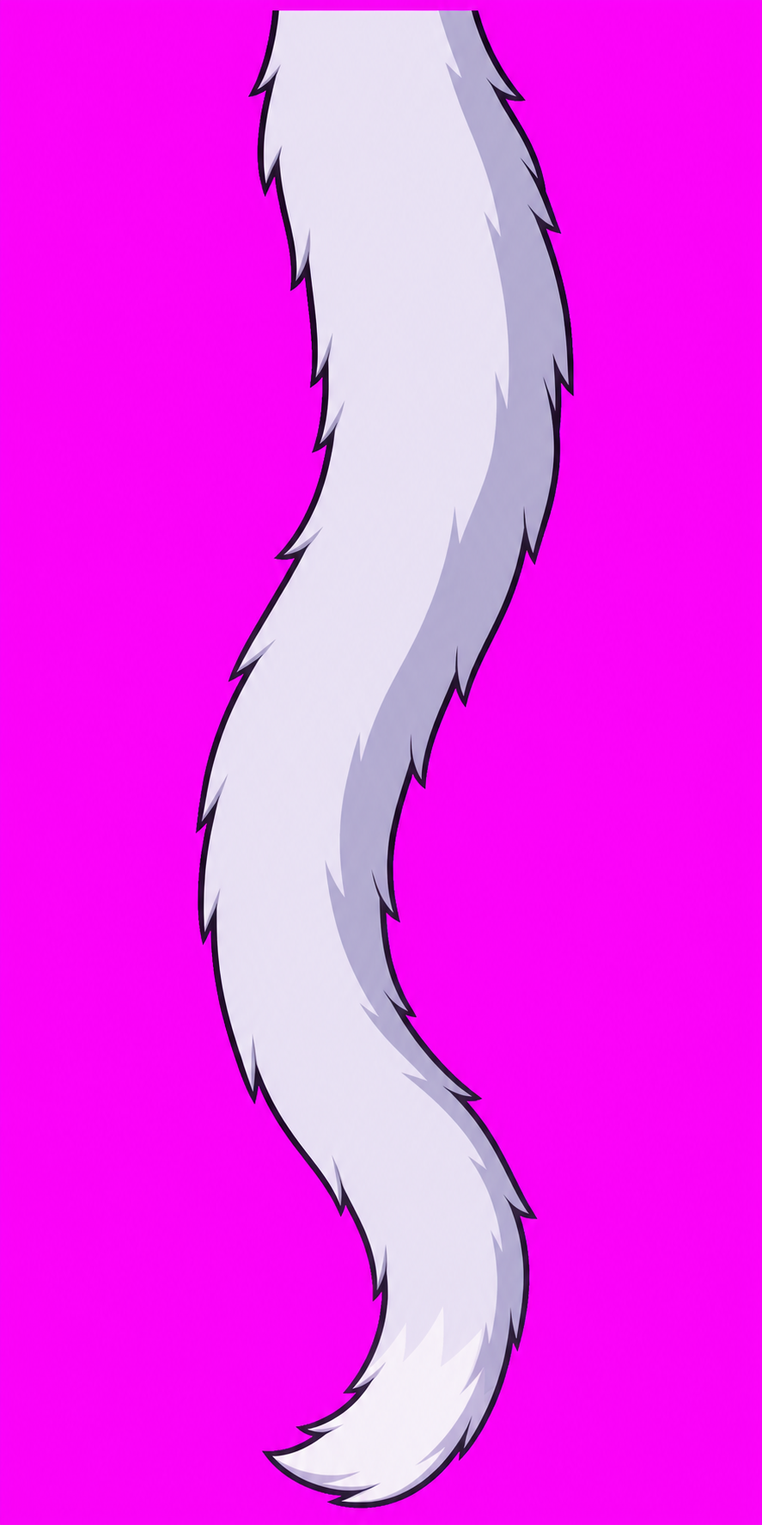
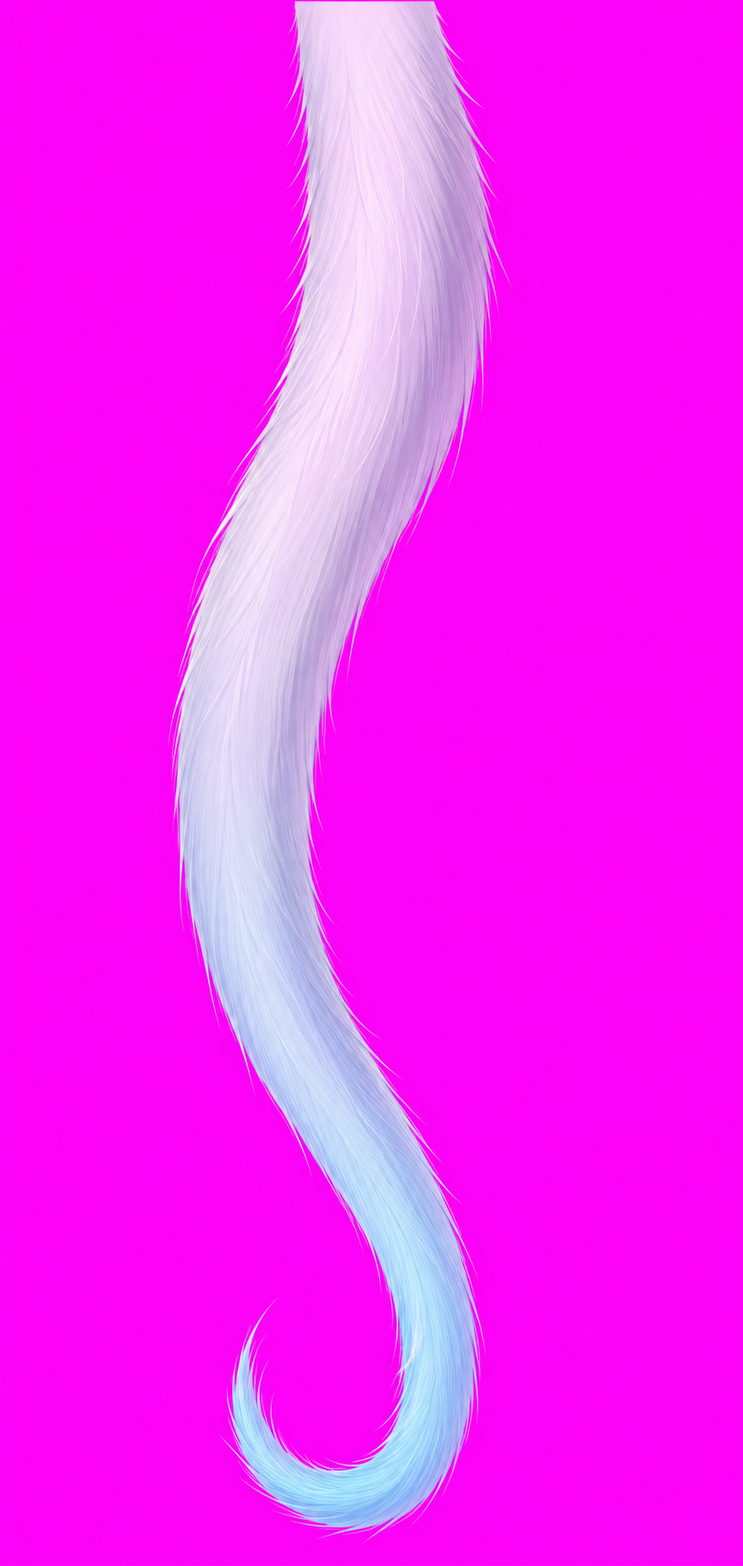
T45.2b 猫尾返工：查教程重做 + 自主摆动
用户打回第一版：「不够精致生动，画风都不一样，这个尾巴只是测试还是什么？
尾巴要有自然摆动，而且太粗了，位置也不对，这个是什么动物的尾巴」
「live2d有教程吧。做参考别这样乱作了」。四条全中，我一条都没自查出来。

查了教程（REFERENCE_NOTES 第三十一批）：多段振り子（伊糖だねこ）、9 段分割且梢比
根快（はるひ）、変形パス 4~5 点（もいもい）、XY 分两条摆（朝sin）、獣耳三层形变器
且耳根不许动（vtuberkaibougaku，留给 T45.3）。

★ 本轮最有价值的发现：社区标准配方「把呼吸加进尻尾物理演算的输入，尻尾就会常に
ゆらゆら」不能照搬。我照做了，实测只摆 0.3 帧像素。查 zrig.c:3013 才明白：官方
物理输出的是摆角，我们输出的是滞后量 pos-target。呼吸只有 0.28Hz，摆锤完全跟得上
⇒ 差值约等于 0。改成 idle 慢正弦(0.21Hz)驱动 ParamAccTailSwing、物理在其上叠二次
滞后后，实测 6.2 帧像素 / 11.3 画布像素，干净正弦。差异写进 LIVE2D_CONFORMANCE。

画风：三版提示词我都写「纯平涂/两个色阶/不许渐变」，因为把「有色卡」误读成「平涂」。
量了才知道 hair_front 4762 色、seg_torso 25828 色 —— 她根本是柔和渐变厚涂。
连带推翻自己的口径：DC55「AI 出图须按色卡重铺」只适用于漫符那类平面符号，
挂件强行重铺 = 把渐变压成平色 = 用户说的「画风都不一样」。recolor 改成可选。

保留渐变带出抠图问题：残留闸报 852px 紫边，补两轮都压不干净、主色被洗成淡粉、
覆盖率掉到 33%。根因是 alpha 估计器选错 —— 欧氏距离法对柔边系统性高估（30% 白压
洋红，距离法 0.57，真值 0.30）。洋红底有解析解：背景 G=0 所以
a = 1 - ((R+B)/2 - G)/255，代回正好 0.30。换完主色 #F8F9FA，紫边消失。

成品 124x560，7275 色渐变保住，银紫基底渐变到青蓝梢（和她发梢同源）。
动物定为猫：桌宠的尾巴是情绪显示器，猫尾词汇量（竖起/慢摇/快拍/炸毛/卷绕）压倒
狼犬（只有大幅摇摆）和兔（小球无动画价值）。换动物 = 改表一条 + 换一张素材。

教训 158 把「机制通了」当成「做完了」交付（验收全是机制指标，零美术指标）；
159 风格判据要从真实素材量，不能从印象写；160 抠图的 alpha 估计器要配背景选。

selfcheck 391/0、test_core 822、asan 822、smoke 211、web 188，make -s check exit 0。

Changed region(s): [[0.2188, 0.0, 0.75, 0.9921]]

diff --git a/tools/make_rig.py b/tools/make_rig.py
@@ -674,6 +674,34 @@ def attach_emit(rig, base, base_root):
                     "不是把部件删掉而是把不透明度压到 0",
         })
 
+        # —— 自主摆动（T45.2b）——
+        # 本引擎物理输出的是**滞后量**（zrig.c:3013 `pos - target`），不是摆角，
+        # 所以慢输入（呼吸 0.28Hz）推不出位移 —— 实测只有 0.3px。
+        # 「自己动」必须有驱动源：一条参数 + 动作通道的慢正弦，
+        # 物理链在它**之上**再叠二次滞后（梢比根慢半拍）。
+        sw = att.get("swing")
+        if sw:
+            swp = sw["param"]
+            binds = [{"deformer": att["physics"]["deformer"]["id"],
+                      "scale": float(sw["deformer_scale"])}]
+            if sw.get("root_rot_deg"):
+                binds.append({"part": pid, "param": "rot_deg",
+                              "scale": float(sw["root_rot_deg"])})
+            rig["params"].append({
+                "id": swp["id"], "label": swp["label"],
+                "min": float(swp["min"]), "max": float(swp["max"]),
+                "default": float(swp["default"]),
+                "binds": binds, "note": sw["note"]})
+            mo = sw["motion"]
+            act = next((x for x in rig["actions"] if x["id"] == mo["action"]), None)
+            if act is None:
+                raise SystemExit(f"[make_rig] 挂件 {att['id']} 的 swing.motion.action="
+                                 f"{mo['action']!r} 在 actions 里不存在")
+            act.setdefault("channels", []).append({
+                "target": swp["id"], "wave": mo["wave"],
+                "amp": float(mo["amp"]), "bias": float(mo["bias"]),
+                "freq": float(mo["freq"])})
+
         ph = att.get("physics")
         if not ph:
             continue
@@ -703,7 +731,14 @@ def attach_emit(rig, base, base_root):
         # （zrig.c:210 多段摆 G16：driver 写另一条 physics 的 id 时，
         #   输入就是上一段的输出，而且下标必须比自己小，所以顺序不能乱）。
         for seg_ in ph["segments"]:
-            e = {"id": seg_["id"], "part": pid, "driver": seg_["driver"]}
+            e = {"id": seg_["id"], "part": pid}
+            # input（参数直驱）优先于 driver（跟某个组）—— 引擎也是这个优先级
+            # （zrig.c:1050「有它就不看 driver」）。悬垂挂件靠它混入呼吸，
+            # 这样静止时也一直在晃（社区做法，见 attachments.json 的 note）。
+            if "input" in seg_:
+                e["input"] = seg_["input"]
+            else:
+                e["driver"] = seg_["driver"]
             if "axis" in seg_:
                 e["axis"] = seg_["axis"]
             if "param" in seg_:

diff --git a/tools/make_attach_parts.py b/tools/make_attach_parts.py
@@ -32,6 +32,30 @@ from make_manpu_parts import (SOLID_A, bg_color, key_alpha, left_magenta,
                               relay_colors, CROP_MARGIN)
 
 
+def key_alpha_soft(rgb: np.ndarray, bg: np.ndarray) -> np.ndarray:
+    """洋红底的**精确** alpha —— 给要保留渐变的挂件用。
+
+    `make_manpu_parts.key_alpha` 用「到背景的欧氏距离」估覆盖度。那对漫符够用
+    （硬边 + 事后按色卡重铺，边上那点误差被重铺盖掉了），但对要保留渐变的柔边
+    **会系统性高估**：30% 白压在洋红上得到 (255,76,255)，距离法给 0.57，真值是 0.30。
+    结果就是一圈半透明的紫边，而且去边公式拿错 a 一除，紫得更凶。
+
+    洋红底其实有精确解：背景是 (255,0,255)，G 通道为 0，所以
+        观测G = a·前景G + (1−a)·0 = a·前景G
+    把「比中性色多出来多少洋红」定义成 excess = (R+B)/2 − G，
+    纯背景 excess = 255、纯中性前景 excess = 0，于是 a = 1 − excess/255。
+    代回上面的例子：excess = 255−76 = 179 ⇒ a = 0.30。**对上了。**
+
+    前提：前景本身不能是洋红系。银紫→青蓝的尾巴满足；真要做粉色挂件得换判据。
+    """
+    f = rgb.astype(np.float64)
+    excess = (f[..., 0] + f[..., 2]) * 0.5 - f[..., 1]
+    denom = (float(bg[0]) + float(bg[2])) * 0.5 - float(bg[1])
+    if denom < 1.0:
+        raise SystemExit("[attach] 背景不是洋红系，key_alpha_soft 用不了")
+    return np.clip(1.0 - np.maximum(excess, 0.0) / denom, 0.0, 1.0)
+
+
 def build_one(att, slot, redraw_dir, sprites_dir):
     src = os.path.join(redraw_dir, att["source"])
     if not os.path.exists(src):
@@ -59,8 +83,15 @@ def build_one(att, slot, redraw_dir, sprites_dir):
     sx1, sy1 = min(bx0 + bw, rgb.shape[1]), min(by0 + bh, rgb.shape[0])
     canvas[sy0 - by0:sy1 - by0, sx0 - bx0:sx1 - bx0] = rgb[sy0:sy1, sx0:sx1]
 
-    ca = key_alpha(canvas, bg)
-    crgb = relay_colors(canvas, ca, att["recolor"])
+    if att.get("recolor"):
+        ca = key_alpha(canvas, bg)
+        crgb = relay_colors(canvas, ca, att["recolor"])
+    else:
+        # 保留渐变的路径：精确 alpha + 反预乘去边。
+        ca = key_alpha_soft(canvas, bg)
+        aa = ca[..., None]
+        crgb = canvas.astype(np.float64) - (1.0 - aa) * bg.astype(np.float64)
+        crgb = np.clip(crgb / np.maximum(aa, 1e-3), 0, 255)
 
     h1 = int(att["sprite_h"])
     w1 = max(1, int(round(h1 * bw / float(bh))))

diff --git a/tools/selfcheck_repo.py b/tools/selfcheck_repo.py
@@ -593,6 +593,7 @@ L2D_EXTENSIONS = {
                    "形状的模型制作方法》扩展表里的 ID，口径=嘴整体左右偏 + 顺带抬起那侧嘴角。"
                    "不能用 ParamMouthForm 代替：Form 被口型同步占着（T44.1 第 ⑦ 条）",
     "ParamAccTailCat": "猫尾挂件开关（0=摘 1=戴）。A49 挂件插槽系统的第一件；走 DC59 差分件口径 min0/max1，绑 alpha 而不是把部件删掉",
+    "ParamAccTailSwing": "猫尾自主摆动。本引擎物理输出的是滞后量不是摆角（zrig.c:3013），慢输入推不出位移，所以「自己动」要靠动作通道驱动这条参数",
     **{f"ParamSparkle{i}": "第 %d 颗 ✨ 的生命周期（scale+alpha 合一，一颗一个参数）" % i
        for i in range(1, 9)},
 }

diff --git a/docs/memory/TASKS.md b/docs/memory/TASKS.md
@@ -709,8 +709,8 @@ T44 是**幅度很小但自成语义**的面部变化（走神 / 怀疑 / 忍笑
 |---|---|---|---|
 | T45.1 | **挂件插槽表** `characters/<c>/design/attachments.json`：定义插槽（位置 / 层号区间 / 父组 / 允许的物理预设）与挂件（素材 / 落哪个插槽 / 开关参数 / 物理参数） | [x] | 口径延续 T43.2：生成器只读表，加挂件 = 表加一条 + 一张素材，不改 .py。**插槽是「位置」不是「某个挂件」** —— 一个槽能换不同件。**2026-10-16 交付**：`characters/xiaoxun/design/attachments.json`。两层结构：`slots[]`（插槽=**位置**：layer / group / anchor / curve）+ `attachments[]`（挂件=**内容**：source / sprite_h / pos / recolor / param / physics）。已定义 3 个槽：`hip_back`（层 30，身后，anchor [0.5,0] 曲线 tip）、`head_under_bangs`（层 185，会被 hair_front 自然压住一截）、`head_over_hair`（层 250）。切件器 `tools/make_attach_parts.py`（**保长宽比**，漫符那个是压成正方的）；键色与色卡重铺直接 import `make_manpu_parts`，不重写第二份。`make_rig.py` 加 `attach_emit()`，一个挂件字面量都不持有，部件/开关参数/形变器/物理链全从表派生。`rebuild_parts.sh` 已接上 |
 | T45.2 | **第一个加法挂件：尾巴**（尾饰品，用户点名） | [x] | 层 30（0~59 整段空着，**那里才是身体之后**；初稿写的 66~94 是错的，那段在腿之上）。照 `hair_ahoge` 抄：2~3 段物理链 + 网格 S 形变器。**硬要求：必须会甩**，贴着不动的尾巴比没有更假（A49 硬要求 4）。**2026-10-16 交付**：猫尾上身了。素材 `design/redraw/acc_tail_cat.png`（887×1774 洋红底）→ 成品 131×520，主色 `#D8D8E8`(58%) 与头发完全同色。物理三段 `tail_x`（跟身体甩）→ `tail_tip`（串在前面，驱动网格形变器 `tail_s`，刚度减半 = 梢比根慢半拍）→ `tail_y`（垂荡）。曲线 `BEND_TIP`，依据是 `src/core/zimg.h:93` 原文直接点名「后发、裙摆、**尾巴**这类吊在上面的部件」—— 引擎当初就是按尾巴设计的。**实测摆动 11.9 帧像素 / 21.6 画布像素**，且数据里能看到阻尼过程（165.1→169.3 用 ~0.7s 才稳，不是瞬跳）。⚠ 两次返工：① `pos` 第一版放 x352，整条压在腿后只露一条缝 → 挪到 x300 才露得出来；② 形变器 amp 第一版照抄呆毛的 [0,2,5,-4.5,-9]，实测整条行程只有 6.6px 而尾巴有 520px 长（摆幅 1.3%）→ ×3 到 [0,6,15,-13.5,-27]。**呆毛的系数不能照搬到尾巴上**。占用：部件 61/192、参数 53/160、物理 17/24、形变器 8。**还缺**：尾巴现在只会『被动跟着身体甩』，真猫的尾巴会自己动 —— idle 自主摆尾归 T45.2b |
-| T45.2b | 尾巴 **idle 自主摆尾**：现在只会被动跟着身体甩 | [ ] | 真猫的尾巴不等身体动就自己摇。走动作通道（给 `tail_s` 配一条参数 + idle 里加一条低频正弦），不是物理 —— 物理只负责『受力之后怎么回弹』，『自己动』得有驱动源。和 ✨ 的 `sparkle_cycle()` 同一个思路 |
-| T45.3 | **第二个加法挂件：兽耳 + 耳饰** | [ ] | 兽耳走层 181~189（被刘海自然压住），耳饰 / 发饰走 247~299。耳朵要能随情绪动（警觉竖起 / 沮丧耷拉）—— 和 T43 漫符共用情绪源 |
+| T45.2b | 尾巴 **idle 自主摆尾**：现在只会被动跟着身体甩 | [x] | 真猫的尾巴不等身体动就自己摇。走动作通道（给 `tail_s` 配一条参数 + idle 里加一条低频正弦），不是物理 —— 物理只负责『受力之后怎么回弹』，『自己动』得有驱动源。和 ✨ 的 `sparkle_cycle()` 同一个思路。**2026-10-16 交付**：`ParamAccTailSwing`（−1~1）由 `idle` 慢正弦 0.21Hz 驱动，同绑网格形变器 `tail_s` 与根部 `rot_deg ±3.2°`；物理链在其**之上**叠二次滞后。实测自主摆动 **6.2 帧像素 / 11.3 画布像素**，干净正弦。★ **社区配方照搬失败**：「把呼吸加进物理输入」在官方成立（官方物理输出**摆角**），我们的物理输出的是**滞后量** `pos−target`（zrig.c:3013），0.28Hz 的呼吸摆锤跟得上 ⇒ 差值≈0，实测只摆 0.3px。本引擎「自己动」必须有独立驱动源 |
+| T45.3 | **第二个加法挂件：兽耳 + 耳饰** | [ ] | 兽耳走层 181~189（被刘海自然压住），耳饰 / 发饰走 247~299。耳朵要能随情绪动（警觉竖起 / 沮丧耷拉）—— 和 T43 漫符共用情绪源。**2026-10-16 定动物 = 猫**（用户问「小寻适合扮演什么动物娘」）。判据是**桌宠的尾巴是情绪显示器，尾巴词汇量压倒一切**：猫尾有竖起(开心/警觉)、慢摇(放松)、快拍(烦躁)、炸毛(惊吓)、卷绕(撒娇)五种以上可读姿态；狼/犬只有大幅摇摆一种；兔尾是个小球几乎没有动画价值。次要理由：细尾在桌面小尺寸下遮挡少；她的银紫发色天然就是银渐层猫。**备选**：她戴着鲸鱼发卡、配色偏水蓝，水獭/海兽方向更独特，但尾巴是扁桨、表现力差 —— 若要走这条，建议把海洋感放在**耳饰**上而不是尾巴。**换动物 = 改表里一条 + 换一张素材**，不动代码 |
 | T45.4 | 挂件**开关与换装 UI**：调试台能逐槽切换挂件 / 摘掉 | [x] | 走 DC59 差分件口径（新参数 min0/def0/max1）。两条入口都要有（`/api/param` 与调试台按钮，DC41）。**2026-10-16：引擎侧早就有，只是没人用。** `zpet_outfit_count/id_at/name_at/set_outfit`、`/api/outfit?id=`、调试台按钮 `web/test.js:185` 全在。本轮把 `outfits/default.json` 改成**从 rig 现状自动生成**（它烂过一次：还在引用上一代单图层 rig 的 `body_full.png`，换装换不回原装）。往返验过：原装→夜航→原装，平均像素差 4.8 vs 基线抖动 4.3 ⇒ 干净。**逐槽摘挂件的 UI 仍缺**（挂件 ≠ 服装） |
 | T45.5 | **服装变化 第 1 档：换色** | [x] | 改 palette 重铺既有外套 / 裙 / 袖。零新素材，是四档里唯一今天就能做的。**2026-10-16 交付：midnight（夜航）**。`design/wardrobe.json` + `tools/make_wardrobe.py`。⚠ **纯按色卡换色行不通**（实测）：`seg_torso` 里外套白被最近邻判成「袜 #F6F2F0」(22.5%)、「外套主体」连前六都没进；`seg_leg_l` 的**腿部皮肤**被判成「衬衫」(34.4%) ⇒ 会把皮肤一起染了。官方《アバターモデル》原文印证：「服と肌が一つの描画オブジェクトですと、まとめて色変更されてしまいます」。**分工口径**：单一衣物件走 `shift`（保明暗平移 `out = target + (px−source)`，实测 arm 80.2% 袖青 + 0 皮肤 ⇒ 安全）；多衣物纠缠的件走 `repaint`（AI 拿原件当参考图整张重绘，卡剪影 IoU ≥ 0.97，实测 0.977） |
 | T45.6 | **服装变化 第 2 档：换件** | [x] | 外套 / 裙子独立成件。**阻塞于 D19**：要 AI 重绘被外套盖住的衬衫与身体，和 T31 躯干腋下补绘是同一类活，**应与 T31 并一个出图批次**。**2026-10-16 交付：cocoa（可可，针织开衫）** —— 棒球夹克→奶油粗针织开衫、衬衫→焦糖高领、百褶裙→棕灯芯绒，**是真换衣服不是改色**。★ **我上一轮说的『阻塞于 D19』是错的，当轮更正**：D19 只在要**拆开**现有衣服露出底下时成立；换装是**整件替换贴图**，AI 直接画一张完整的「穿着新衣服的躯干」，没有被盖住的部分需要重绘。**所以不阻塞，也不必和 T31 并批。** 新增 `restyle` 模式：换件**不能卡 IoU**（开衫比夹克厚，实测外长 12.0%，IoU 必然掉到 0.89），改卡**外长上限 + 内缩上限** —— 会在身上露洞的是内缩（上限 5%，实测 0.1%）。官方依据：「レイヤー間が近すぎると今の形よりも大きなコスチュームへの変更が難しくなります」 |

diff --git a/docs/LIVE2D_CONFORMANCE.md b/docs/LIVE2D_CONFORMANCE.md
@@ -100,6 +100,7 @@ I/U/E/O 音素口型（G37）、瞳孔形状（`ParamEyeBallForm`，G41）、眉
 | `ParamBaseRot` | **2026-10-13 补**：全身倾斜。标准表只有 `ParamBodyAngleZ`（上身），而"被摸头 / 被拖拽"时要整个人（含腿）一起晃，所以另立一个绑 `root` 组 `rot_deg × 0.5` |
 | `ParamStarEye` | **2026-10-16 补**：星星眼总闸（0→1）。一条参数三件事：常态虹膜 `alpha × −1`（淡出）、星形虹膜 `alpha × 1 offset −1`（淡入）、8 颗 ✨ 同样 `×1 offset −1`（放行）。官方没有这个参数，但差分件切换的做法是官方的（[surume1ka](https://surume1ka.com/archives/2207)：新参数 min0/def0/max1，用不透明度 0↔100 切）。另见 [@kawase1234567](https://x.com/kawase1234567/status/1747491216227516567)：きらきら目和ハート目不会同时发动，**应当收进同一个参数**，所以这里是一条总闸而不是每种眼睛一条 |
 | `ParamMouthX` | **2026-10-16 补（T44.2）**：嘴左右 −1~1 = 单边嘴角。不是 Live2D 标准表的名字，取自 Animaze《複雑な口角形状の Live2D モデル作成方法》的扩展参数表（[animaze.us](https://www.animaze.us/manual/gettingstarted2djp/extparam2d)），原文口径「口角を『クイッ』と上げるような、左右の位置を調整するパラメータ」「頬も同様に口の動きに合わせて少し上がるように」。**为什么不复用 `ParamMouthForm`**：Form 已经被口型同步占满（visemes 里 I=+1.0 / U=−1.0 / O=−0.7 / N=−0.35），而且引擎口径是口型层覆盖、表情只拿 (1−w) 的余味 —— 挂在 Form 上的微表情一说话就被压掉。**我们的偏差**：官方做法是 mesh 变形器把一侧嘴角拉高，我们只有整件变换，所以用 `rot_deg ±8°` 代替，`dx` 压到 ±1.5px 只做支点错觉（实测扫描 `logs/asset_qa/mouthx_sweep.png`：平移一大就变成「嘴整个滑到一边」的缺陷）。官方 PerfectSync 把 Left/Right Mouth Corner 列在 ★ 最低推荐档（[juku.live2dcs.jp](https://juku.live2dcs.jp/en/course/course-18/)） |
+| `ParamAccTailSwing` | **2026-10-16 补（T45.2b）**：猫尾自主摆动 −1~1，由 `idle` 的慢正弦（0.21Hz ≈ 4.8 秒一个来回）驱动，同时绑网格形变器 `tail_s`（S 形鞭动）与根部 `rot_deg ±3.2°`。**我们和官方的实现差异（重要）**：Live2D 社区的标准配方是「把**呼吸**加进尻尾物理演算的**输入**，尻尾就会常にゆらゆら」（[伊糖だねこ](https://note.com/itodaneko/n/n3b5e2ada3f4b)）—— 那在官方引擎成立，因为**官方物理输出的是摆角**。我们的物理输出的是**滞后量** `pos − target`（`src/core/zrig.c:3013`），呼吸只有 0.28Hz、摆锤完全跟得上 ⇒ 差值≈0，**实测只摆 0.3 帧像素**。所以在本引擎「自己动」必须有独立驱动源，物理只负责在它之上叠二次滞后。换成动作通道后实测 **6.2 帧像素 / 11.3 画布像素**，波形是干净正弦 |
 | `ParamAccTailCat` | **2026-10-16 补（T45.2）**：猫尾挂件开关，0=摘掉 1=戴上。官方标准表里没有挂件概念 —— Live2D 的做法是 `pose3.json` 的**差分组**（一组部件同一时刻只露一个），我们这里是单件开关，走的是同一套差分件口径（[surume1ka](https://surume1ka.com/archives/2207)：新参数 min0/def0/max1，用不透明度 0↔100 切），所以**绑 `alpha` 而不是把部件从 rig 里删掉**。尾巴本体不靠这个参数动，动的是物理链 `tail_x → tail_tip（驱动网格形变器 tail_s）→ tail_y`；曲线用 `BEND_TIP`，依据是 `src/core/zimg.h:93` 原文「顶边固定，越往下位移越大 —— 后发、裙摆、**尾巴**这类吊在上面的部件」。实测摆动 11.9 帧像素 / 21.6 画布像素，带阻尼（~0.7s 稳定）|
 | `ParamSparkle1` `ParamSparkle2` `ParamSparkle3` `ParamSparkle4` `ParamSparkle5` `ParamSparkle6` `ParamSparkle7` `ParamSparkle8` | **2026-10-16 补**：第 N 颗 ✨ 的生命周期。一颗一个参数，0→1 走完 = 放大出现→缩小消失（`alpha ×1 offset −1` 与 `sx`/`sy ×0.55 offset −0.55` 合在同一条参数上）。**不许八颗共用一条** —— [カワナミ](https://kw-nmnm.hatenablog.com/entry/2019/12/18/000000)（Live2D 讲师）的做法是 28 颗 ✨ 配 28 个参数，共用会让它们整齐划一地闪，一眼假。素材只有一张 `fx_sparkle.png`，大中小靠 `scale` 复制（官方讲座「キラキラ1・2・3」要求三种大小混用） |
 

diff --git a/docs/REFERENCE_NOTES.md b/docs/REFERENCE_NOTES.md
@@ -2076,3 +2076,66 @@ Ponder & Kennedy (1927) 发现怒り/興奮で瞬目が増える；
 按 Drawable 设 `setDrawableMultiplyColor()` / `setDrawableScreenColor()`，可运行时改。
 这是比"预生成贴图"更灵活的换色路线（能做拾色器让用户自选颜色），
 但**前提仍是衣服和皮肤已经分成不同 Drawable** —— 对我们来说那是 T45.6 之后的事。
+
+
+## 第三十一批：Live2D 的尻尾与獣耳（T45.2b / T45.3，2026-10-16）
+
+用户打回第一版尾巴时的原话：「**live2d有教程吧。做参考别这样乱作了**」。这批就是补这一课。
+
+### 尻尾的做法
+
+- **多段振り子（多段摆）** —— `https://note.com/itodaneko/n/n3b5e2ada3f4b`
+  （伊糖だねこ《Live2D練習記録⑧ ー 猫耳と尻尾・物理演算 ー》）：
+  > 尻尾の揺れは長いパーツなので**多段振り子**にしています。入力設定に尻尾を振る
+  > パラメータだけでなく、**呼吸のパラメータを追加することで、常に尻尾がゆらゆらする**
+  > ようになっています。
+
+  又：多段振り子では「毛先の動きから段階的に大きい動きをつけ」「**毛先の動きが1番下、
+  根元が1番上**になるように並べ」。
+
+- **分段数** —— `https://x.com/Haruhi_Vtuber/status/1883822197846028374`（はるひ-Live2D）：
+  > しっぽ全体を**９つのパラメータ**で分け、しっぽの先にかけて**段階的に速く揺れる**ように
+  > 調整しています。ループモーション用の**空のパラメータ**を作って、全て物理演算で動かしています。
+
+- **变形路径点数** —— `https://note.com/moimoi_sp/n/n5310a594e40d`（もいもい）：
+  尻尾は「変形パスからスキニングにして、物理演算で調整」「**変形パスで4,5点打ちます**」。
+
+- **XY 要分开两条摆** —— `https://note.com/asasinstudio/n/nb8c9c8feb081`（朝sin）：
+  > 極論 **XY方向で別々のパラメータを用意し物理演算でもXY別々の振り子**を用意し割り振れば良い。
+  > おすすめは**回転＋ワープデフォーマ**。回転デフォーマだけでXYを作るのはおすすめ出来ません。
+
+### ★★★ 一条**不能照搬**的配方（本仓库的关键偏差）
+
+「把呼吸加进物理**输入**，尾巴就会常にゆらゆら」这条在**官方引擎成立**，因为
+**官方 physics 的输出是摆角（绝对位置）**。
+
+**我们的引擎输出的是「滞后量」**：`src/core/zrig.c:3013`
+```c
+ph->out_cur = ZC_CLAMP(ph->pos - target, -ph->max, ph->max);
+```
+呼吸只有 0.28Hz，摆锤完全跟得上 ⇒ `pos − target ≈ 0`。**实测照抄后只摆 0.3 帧像素。**
+
+⇒ 在本引擎里「自己动」必须有**独立驱动源**（动作通道的慢正弦），物理只负责在它**之上**
+叠二次滞后。改过来之后实测 **6.2 帧像素 / 11.3 画布像素**，波形是干净正弦。
+这条差异已写进 `docs/LIVE2D_CONFORMANCE.md`。
+
+### 獣耳的做法（T45.3 的依据，先存着）
+
+- `https://vtuberkaibougaku.site/2021/09/27/live2d-nekomimi/`：耳朵用三层形变器
+  （眨眼用 1 个 + 摇晃用 2 个）；**「あまり根本を動かしてしまうと猫耳自体が浮いて見えてしまう」**
+  —— 耳根不要动，否则耳朵像是浮在头上。摇晃「1つ目のデフォーマには大きい動作、
+  2つ目には先っぽの方の揺れ」。
+- `https://note.com/itodaneko/n/n3b5e2ada3f4b`：猫耳「主に**眉毛の動き**に連動して動かす」，
+  输入种别用**角度**（这样耳形会跟着眉形走）。
+- `https://otimusya24.com/nekomimi-lve2d/`：另一派把耳朵连动到**瞬き**；
+  参数「耳揺れ」取 −30~30，「−30で耳が下がる、30ではピンと張る」。
+- `https://note.com/himono_vtuber/n/ne6f7c0fdfdaa`：獣耳的素材要拆成
+  **・前面 ・奥 ・中のふさふさ** 三片。
+
+### 画风口径（这次返工的真正原因）
+
+用户：「**色彩光影以及画风要更加符合小寻的形态，还是太像简笔画了**」。
+实测她的素材**根本不是平涂**：`hair_front` 4762 色 / `hair_back` 5026 色 /
+`seg_torso` 25828 色，全是**柔和渐变厚涂**。
+⇒ DC55「AI 出图须按色卡重铺」的口径**只适用于漫符那类平面符号**；
+挂件要和身体长在一起，强行重铺 = 把渐变压成几个平色 = 用户说的「画风都不一样」。

diff --git a/docs/memory/LESSONS.md b/docs/memory/LESSONS.md
@@ -2087,3 +2087,38 @@ T43.3 加漫符时如果只改表 + 跑 make_rig，会以为"表没生效"而去
   才拦得住 —— 这一条实测把残留从 501 压到 35。
 - 这是既有教训「最外圈半透明像素颜色不可信（可信 a>0.85）」在**另一个方向**的同一件事：
   那条说的是"别拿它当颜色样本"，这条说的是"**也别拿它当填充来源，更别拿它当判据边界**"。
+
+### 158 把"机制通了"当成"做完了"交付（2026-10-16）
+- 猫尾第一版：物理链串起来了、层号对了、流水线通了，我就当成品交了。
+  用户一眼回：「**不够精致生动，并且画风都不一样，这个尾巴只是测试还是什么？**」
+  —— 四条全中：画风不对、太粗、位置不对、而且**那根本不是猫尾是狼尾**。
+- 我的验收全是**机制指标**（IoU、摆幅像素、重叠=0、闸门 910/0），
+  **一条美术指标都没有**。机制指标全绿 ≠ 东西能看。
+- 更糟的是：我提示词写的是 cat，出来的是 husky，**我自己没看出来**。
+  生成式素材必须问一句「**这张图如果让人盲猜，他会说这是什么**」。
+- 规则：**生成素材的验收必须包含"和既有素材并排看"**一项，而且要看画风是否同源，
+  不只是看形状对不对。并排图要和**角色本体**放一起，不是单看素材。
+
+### 159 风格判据要从真实素材量，不能从自己的印象写（2026-10-16）
+- 三版尾巴提示词我都写「**纯平涂 / 只许两个色阶 / 不许渐变 / 深色硬描边**」，
+  因为我脑子里认定这个项目是 cel-shaded 画风（色卡 26 色、check_assets 有色卡闸，
+  这些都在强化那个印象）。
+- 用户说「还是太像简笔画了」之后才去量：`hair_front` **4762 色**、
+  `hair_back` 5026 色、`seg_torso` **25828 色** —— **她根本是柔和渐变厚涂。**
+  色卡只是**主色参考**，不是渲染方式。
+- 我把「有色卡」误读成「平涂」，这个错误前后毒害了三次出图。
+- 规则：描述既有风格之前先**统计一下真实素材**（颜色数、色阶分布、边缘锐度），
+  三行代码的事。**"项目有色卡"推不出"项目是平涂"。**
+
+### 160 抠图的 alpha 估计器要配背景选，距离法对柔边会系统性高估（2026-10-16）
+- 保留渐变之后，尾巴边上留了一圈紫，残留闸报 852 px。补了两轮（反预乘去边、
+  把仍洋红的点判为背景）都压不干净，而且主色被洗成 `#F7DAFA` 淡粉、覆盖率掉到 33%。
+- 根因是 **alpha 估计器选错了**，不是去边公式错。`key_alpha` 用「到背景的欧氏距离」，
+  对柔边**系统性高估**：30% 白压在洋红上 = (255,76,255)，距离法给 **0.57**，真值 **0.30**。
+  a 一错，去边公式 `(obs − (1−a)·bg)/a` 就越除越紫。
+- 洋红底有精确解：背景 G=0，所以 `观测G = a·前景G`。定义
+  `excess = (R+B)/2 − G`（纯背景 255、中性前景 0），则 **`a = 1 − excess/255`**。
+  代回上例：excess = 179 ⇒ a = 0.30，**对上了**。换完主色变 `#F8F9FA` 中性冷白，紫边消失。
+- 规则：**抠图先问背景是什么颜色，再选 alpha 估计器。** 距离法是通用兜底，
+  但只要背景在某个通道上是极值（洋红 G=0、绿幕 R/B 低），那个通道就能给出解析解。
+  通用方法在有解析解的地方会输，而且输的方式是"看起来差不多但系统性偏移"。

diff --git a/docs/ROADMAP.md b/docs/ROADMAP.md
@@ -12,7 +12,7 @@
 
 ## 0. 现在在哪
 
-**总进度：297 项任务，完成 76，进行中 9。**
+**总进度：297 项任务，完成 77，进行中 9。**
 
 主线是用户 2026-10-11 定的那句话：**「先做好基础软件。ui，可以做动作的动态立绘」**，
 至今没有改过。后面每一轮新加的东西（VRChat、唱歌、人格…）都排在它后面。
